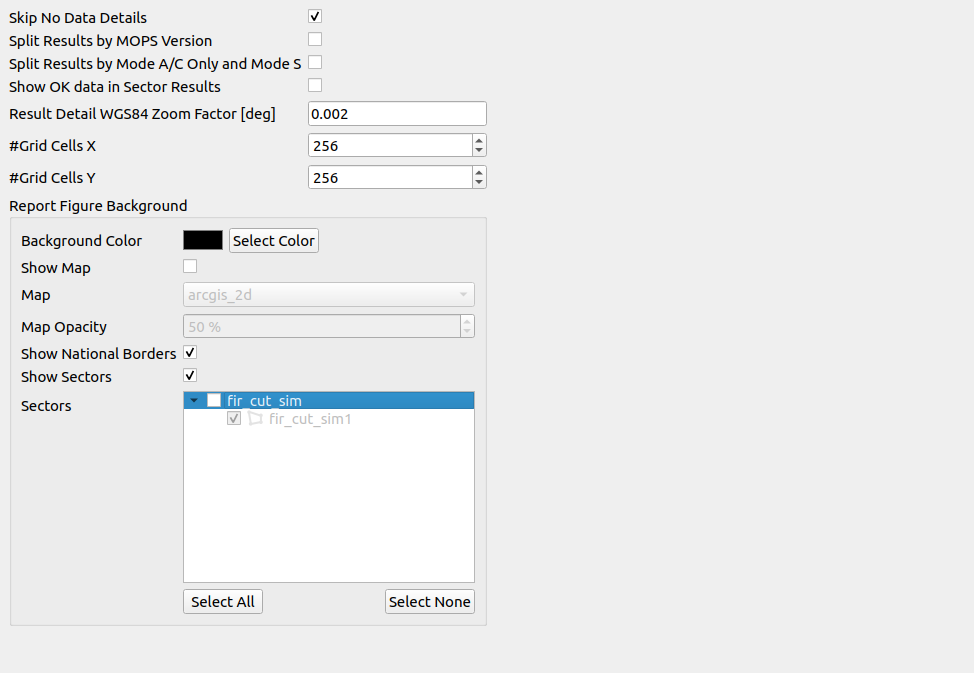
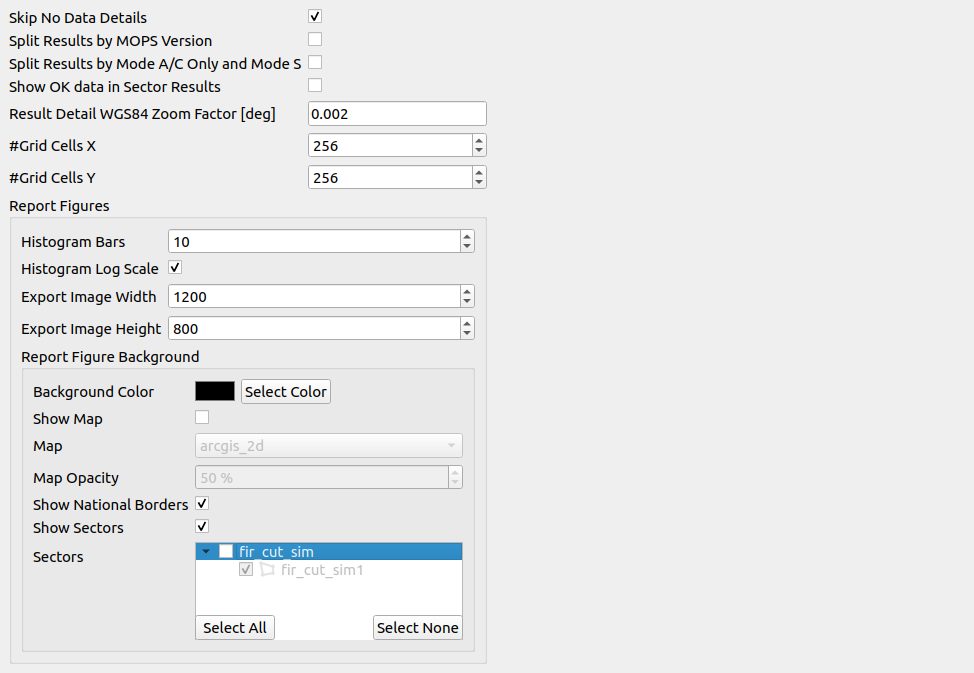
User manual: simple figures and view figures, Report Figures settings
Reports: figures are simple figures (charts in the report, exported as
images) or view figures (View button only, not exported), the Results
Overview as table example, the export rules for figures. Evaluation and
Analyze dialog: the Report Figures group (histogram bars, log scale,
export image size). Track angle offset statistics in deg. The list of
figures and the list of tables are removed. New and updated screenshots.

diff --git a/doc/user_manual/flightdeck/reports/reports.tex b/doc/user_manual/flightdeck/reports/reports.tex
@@ -89,6 +89,19 @@ A menu will open, giving multiple options for export.
 
 Please \textbf{note} that the 'Export as PDF' entry is disabled when \texttt{pdflatex} is not installed on the system. \\
 
+All export formats write the figures as follows (see \nameref{sec:report_section_figures}):
+
+\begin{itemize}
+    \item Simple figures: Each chart of the figure is written as one image, no View is opened
+    \begin{itemize}
+        \item Image name: \texttt{<figure name>\_<chart>\_<number>.png}, e.g. \texttt{Sector Overview\_grid\_0.png}
+        \item Image size: The export image size of the Report Figures settings of the task, 1200 x 800 by default, at twice the resolution
+    \end{itemize}
+    \item View figures: Not exported
+    \item The 'Targets' section of an evaluation report (one section per target) is not exported
+\end{itemize}
+\ \\
+
 \subsubsection{Export as DocX}
 \label{sec:report_export_docx}
 
@@ -307,7 +320,7 @@ When navigating to a section, the section's contents will be displayed. \\
 A section can obtain three types of contents:
 
 \begin{itemize}  
-    \item \nameref{sec:report_section_figures}: Viewable data, which can be visualized in certain Views and exported to a file as image data
+    \item \nameref{sec:report_section_figures}: Charts shown in the report (simple figures), or viewable data shown in the Views (view figures)
     \item \nameref{sec:report_section_tables}: Tabular data, which can be inspected and exported
     \item \nameref{sec:report_section_texts}: Textual data
 \end{itemize}
@@ -316,14 +329,39 @@ A section can obtain three types of contents:
 \subsubsection{Figures} 
 \label{sec:report_section_figures}
 
+A figure is one of two kinds:
+
+\begin{itemize}
+    \item \textbf{Simple figure}: Shows its annotations only and loads no target reports
+    \begin{itemize}
+        \item The report shows the figure's charts below its name: histograms, scatter plots and grids
+        \item The charts have no mouse interaction (no zoom, no pan, no tools)
+        \item A grid over longitude and latitude is drawn with the background of the Report Figures settings of the task (map, national borders, sectors)
+        \item The 'View' button below the charts shows the figure in the Views, with all interactions
+        \item The report exports the charts as images
+    \end{itemize}
+    \item \textbf{View figure}: Needs target reports, e.g. the 'Target Errors Overview' of a target in an evaluation report
+    \begin{itemize}
+        \item The report shows the figure's name and the 'View' button
+        \item The 'View' button loads the target reports and shows the figure in the Views
+        \item The report does not export view figures
+    \end{itemize}
+\end{itemize}
+\ \\
+
 \begin{figure}[H]
     \centering
-    \includegraphics[width=13.8cm,frame]{figures/content_figure.png}
-  \caption{Figure content}
+    \includegraphics[width=10cm,frame]{figures/content_figure.png}
+  \caption{Simple figure with two histograms and a grid}
 \end{figure}
 
-Figures will be displayed as a text label showing the figure's name, and a 'View' button. When pressed, the figure's 
-drawable contents will be shown in all Views that are able to display it.
+\begin{figure}[H]
+    \centering
+    \includegraphics[width=13.8cm,frame]{figures/content_view_figure.png}
+  \caption{View figure}
+\end{figure}
+
+\includegraphics[width=0.5cm]{../../data/icons/hint.png} \textbf{Please note that a simple figure which cannot be drawn shows '(cannot be drawn)' after its name and the 'View' button only.} \\
 
 \subsubsection{Tables} 
 \label{sec:report_section_tables}
@@ -331,7 +369,7 @@ drawable contents will be shown in all Views that are able to display it.
 \begin{figure}[H]
     \centering
     \includegraphics[width=13.8cm,frame]{figures/content_table.png}
-  \caption{Table content}
+  \caption{Table content: Results Overview of an evaluation}
 \end{figure}
 
 Tables will be displayed as a text label showing the table's name, the table's contents, 
@@ -342,7 +380,15 @@ The 'Copy Content' action can be used to copy the table's contents to the clipbo
 
 Table rows might additionally be linked to either viewable data or another section.
 Clicking on a table row will trigger the linked viewable data to be displayed if available.
-Double-clicking on a table row will navigate to the linked section if available.
+Double-clicking on a table row will navigate to the linked section if available. \\
+
+E.g. in the 'Results Overview' of an evaluation report, each row shows one requirement with its result:
+
+\begin{itemize}
+    \item Clicking a row shows the sector overview of the requirement in the Views
+    \item Double-clicking a row navigates to the section of the requirement, with its figures and tables
+\end{itemize}
+\ \\
 
 \subsubsection{Texts} 
 \label{sec:report_section_texts}

diff --git a/doc/user_manual/eval/eval_req_speed.tex b/doc/user_manual/eval/eval_req_speed.tex
@@ -135,11 +135,11 @@ The 'Track Angle' requirement is used to calculate the probability of a target r
     \#PosInside [1] & Number of updates inside sector & 581133 \\ \hline
     \#PosOutside [1] & Number of updates outside sector & 295 \\ \hline
     \#NoTstData [1] & Number of updates without tst trackangle data & 0 \\ \hline
-    OMin [m/s] & Minimum of trackangle offset & -179.3 \\ \hline
-    OMax [m/s] & Maximum of trackangle offset & 179.98 \\ \hline
-    OAvg [m/s] & Average of trackangle offset & -0.01 \\ \hline
-    OSDev [m/s] & Standard Deviation of trackangle offset & 5.25 \\ \hline
-    OVar [$m^2$/$s^2$] & Variance of trackangle offset & 27.53 \\ \hline
+    OMin [deg] & Minimum of track angle offset & -179.3 \\ \hline
+    OMax [deg] & Maximum of track angle offset & 179.98 \\ \hline
+    OAvg [deg] & Average of track angle offset & -0.01 \\ \hline
+    OSDev [deg] & Standard Deviation of track angle offset & 5.25 \\ \hline
+    OVar [$deg^2$] & Variance of track angle offset & 27.53 \\ \hline
     \#CF [1] & Number of updates with failed comparison & 2670 \\ \hline
     \#CP [1] & Number of updates with passed comparison & 577009 \\ \hline
     PCP [\%] & Probability of passed comparison & 99.54 \\ \hline
@@ -164,11 +164,11 @@ Also, a table is given for all single targets, sorted by PCP.
     \#PosInside [1] & Number of updates inside sector & 813 \\ \hline
     \#PosOutside [1] & Number of updates outside sector & 0 \\ \hline
     \#NoTstData [1] & Number of updates without tst trackangle data & 0 \\ \hline
-    OMin [m/s] & Minimum of trackangle offset & -7.82 \\ \hline
-    OMax [m/s] & Maximum of trackangle offset & 7.92 \\ \hline
-    OAvg [m/s] & Average of trackangle offset & 0.05 \\ \hline
-    OSDev [m/s] & Standard Deviation of trackangle offset & 0.66 \\ \hline
-    OVar [$m^2$/$s^2$] & Variance of trackangle offset & 0.44 \\ \hline
+    OMin [deg] & Minimum of track angle offset & -7.82 \\ \hline
+    OMax [deg] & Maximum of track angle offset & 7.92 \\ \hline
+    OAvg [deg] & Average of track angle offset & 0.05 \\ \hline
+    OSDev [deg] & Standard Deviation of track angle offset & 0.66 \\ \hline
+    OVar [$deg^2$] & Variance of track angle offset & 0.44 \\ \hline
     \#CF [1] & Number of updates with failed comparison & 0 \\ \hline
     \#CP [1] & Number of updates with passed comparison & 813 \\ \hline
     PCP [\%] & Probability of passed comparison & 100.00 \\ \hline

diff --git a/doc/user_manual/analyze/analyze_dialog.tex b/doc/user_manual/analyze/analyze_dialog.tex
@@ -87,10 +87,34 @@ The Evaluation exclusions are defined in the \nameref{sec:targets} tool of the F
 \includegraphics[width=0.5cm]{../../data/icons/hint.png} \textbf{Please note that the exclusions are read when the analysis is run.
 If they are changed later, the analysis report has to be updated to use the changed exclusions.} \\
 
+\subsection{Report Figures}
+\label{sec:analyze_report_figures}
+
+The 'Report Figures' group on the 'Report' page sets how the figures of the analysis report are drawn (see \nameref{sec:report_section_figures}):
+
+\begin{itemize}
+\item Histogram Log Scale: Logarithmic count axis of the histograms with one data series, on by default
+\begin{itemize}
+\item Histograms with several data series are stacked and always use a linear axis
+\end{itemize}
+\item Export Image Width, Export Image Height: Layout size of an exported figure image, 1200 x 800 by default
+\begin{itemize}
+\item The image has twice this size in pixels
+\item A smaller layout gives larger text in the image, e.g. for two figures next to each other on one page
+\end{itemize}
+\item Report Figure Background: See below
+\end{itemize}
+\ \\
+
+The number of histogram bars of the update interval histograms is set in the ADS-B and MLAT Sensor Coverage settings ('Histogram Bins', 10 by default). \\
+
+\includegraphics[width=0.5cm]{../../data/icons/hint.png} \textbf{Please note that these settings are written into the figures when the analysis runs.
+Changed settings apply to the next analysis, not to existing reports.} \\
+
 \subsection{Report Figure Background}
 \label{sec:analyze_report_figure_background}
 
-The 'Report Figure Background' group on the 'Report' page sets the background of the report figures with a grid over longitude and latitude (e.g. the coverage figures).
+The 'Report Figure Background' group in the 'Report Figures' group on the 'Report' page sets the background of the report figures with a grid over longitude and latitude (e.g. the coverage figures).
 The report shows and exports these figures with this background, and the 'View' button gives it to the Grid View.
 The values are the same as the background items of the Grid View, see \nameref{sec:grid_background}. \\
 

diff --git a/doc/user_manual/eval/evaluation.tex b/doc/user_manual/eval/evaluation.tex
@@ -347,10 +347,33 @@ The following settings can be used to configure the content of the generated res
 \end{itemize}
 \ \\
 
+\subsubsection{Report Figures}
+\label{sec:eval_report_figures}
+
+The 'Report Figures' group sets how the figures of the evaluation report are drawn (see \nameref{sec:report_section_figures}):
+
+\begin{itemize}
+\item Histogram Bars: Number of bars of the histograms of value distributions (e.g. 'Full distribution' of a position error), 10 by default
+\item Histogram Log Scale: Logarithmic count axis of the histograms with one data series, on by default
+\begin{itemize}
+\item Histograms with several data series are stacked and always use a linear axis
+\end{itemize}
+\item Export Image Width, Export Image Height: Layout size of an exported figure image, 1200 x 800 by default
+\begin{itemize}
+\item The image has twice this size in pixels
+\item A smaller layout gives larger text in the image, e.g. for two figures next to each other on one page
+\end{itemize}
+\item Report Figure Background: See below
+\end{itemize}
+\ \\
+
+\includegraphics[width=0.5cm]{../../data/icons/hint.png} \textbf{Please note that these settings are written into the figures when the evaluation runs.
+Changed settings apply to the next evaluation, not to existing reports.} \\
+
 \subsubsection{Report Figure Background}
 \label{sec:eval_report_figure_background}
 
-The 'Report Figure Background' group sets the background of the report figures with a grid over longitude and latitude (e.g. the sector overview figures).
+The 'Report Figure Background' group in the 'Report Figures' group sets the background of the report figures with a grid over longitude and latitude (e.g. the sector overview figures).
 The report shows and exports these figures with this background, and the 'View' button gives it to the Grid View.
 The values are the same as the background items of the Grid View, see \nameref{sec:grid_background}. \\
 

diff --git a/doc/user_manual/user_manual.tex b/doc/user_manual/user_manual.tex
@@ -256,10 +256,6 @@
 \tableofcontents
 \setlength{\unitlength}{1pt}
 \clearpage
-\listoffigures
-\clearpage
-\listoftables
-\clearpage
 
 %#% extend
 
